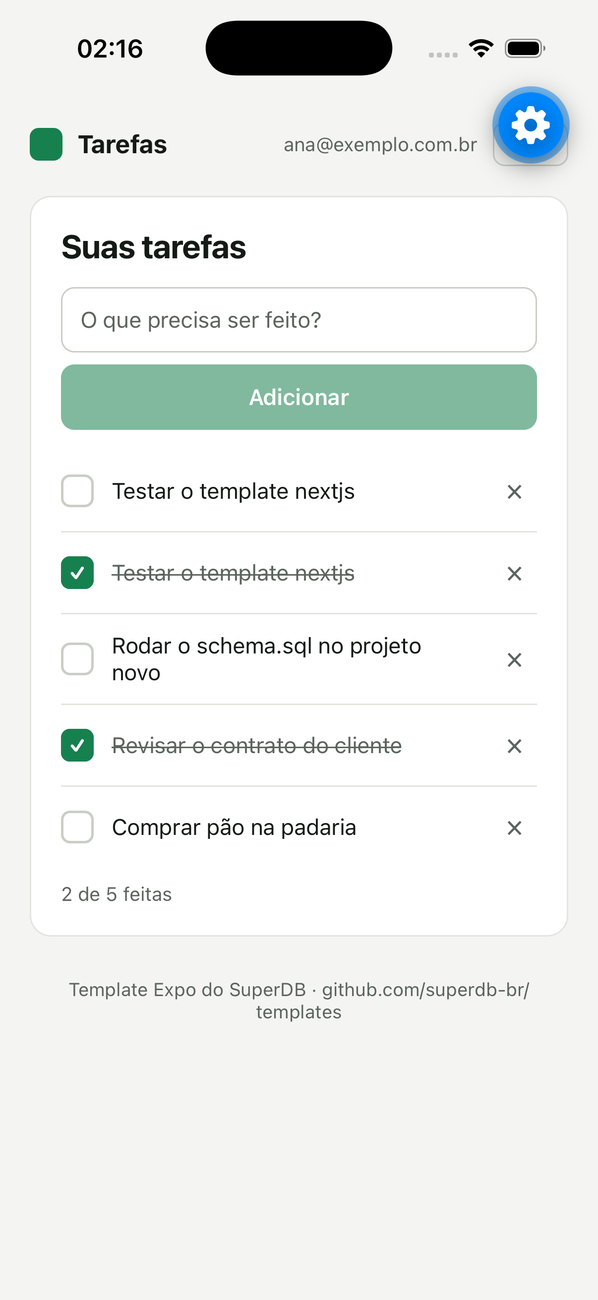
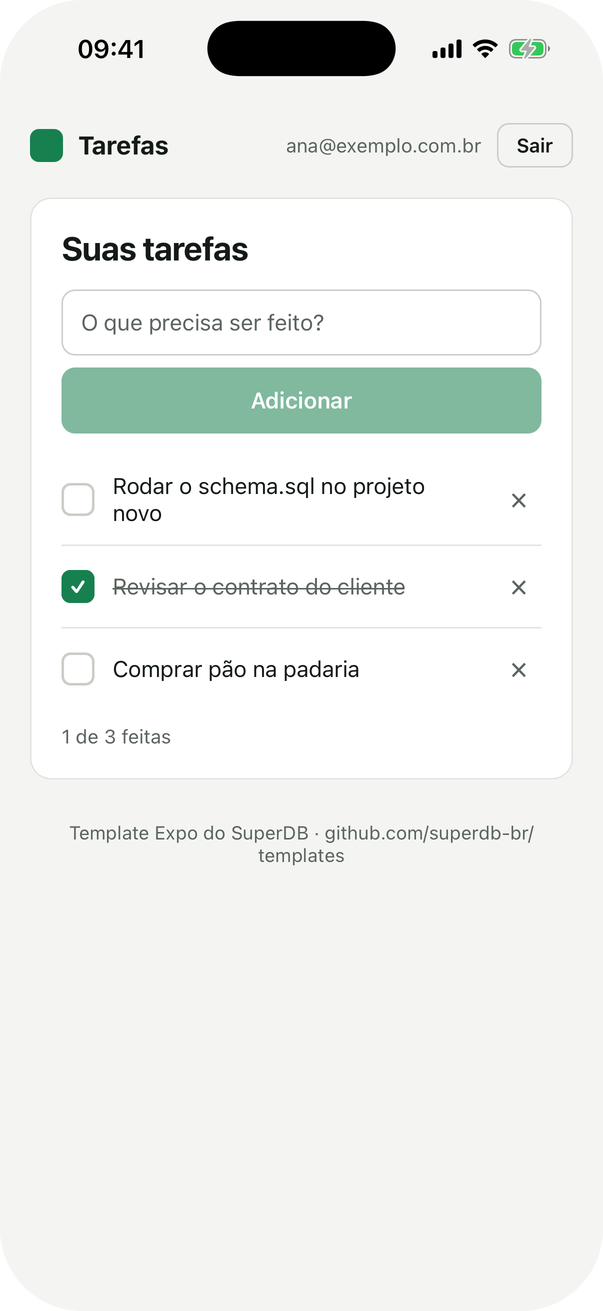
Imagens do README sem corte, e o Expo sem o botão de desenvolvimento
- A tela de login do README vai inteira, com versão clara e escura.
- O print do Expo foi refeito sem o botão flutuante do Expo Go.

diff --git a/README.md b/README.md
@@ -45,7 +45,10 @@ Pronto: `npm run dev`, crie uma conta na tela do app e comece a usar.
 > Sem projeto ainda? [Crie um de graça](https://app.superdb.com.br/signup). A tela inicial de cada template confere a ligação e diz exatamente o que falta: variável, projeto ou tabela.
 
 <div align="center">
-<img src="./assets/entrar.png" alt="Tela de login com a checagem da conexão: variáveis, projeto e tabela" width="420" />
+<picture>
+  <source media="(prefers-color-scheme: dark)" srcset="./assets/entrar-escuro.png" />
+  <img src="./assets/entrar-claro.png" alt="Tela de login com a checagem da conexão: variáveis, projeto e tabela, as três conferidas" width="420" />
+</picture>
 </div>
 
 ## O que todos têm em comum
